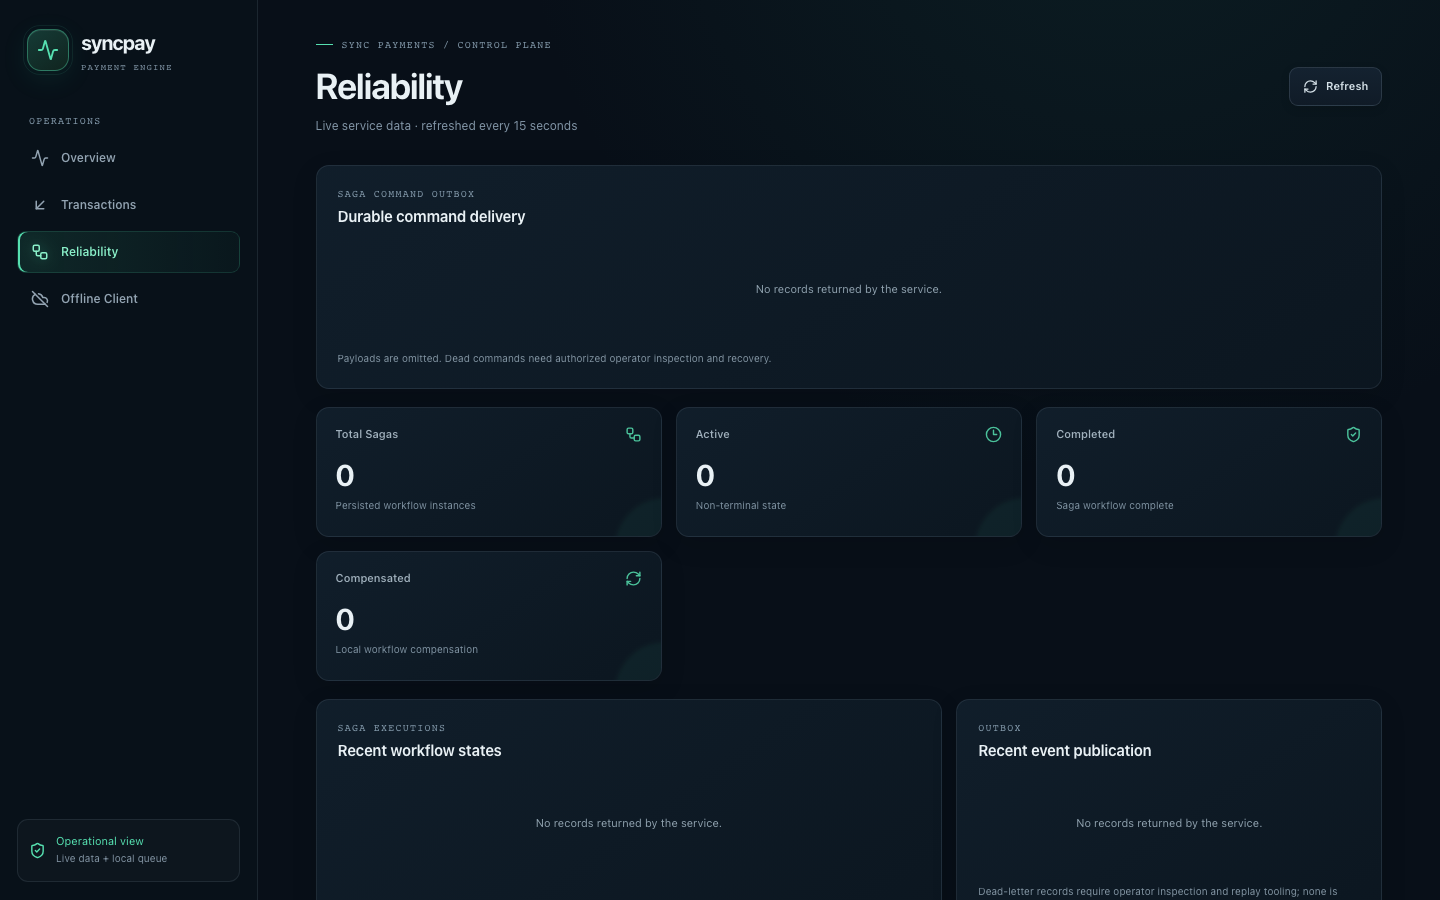
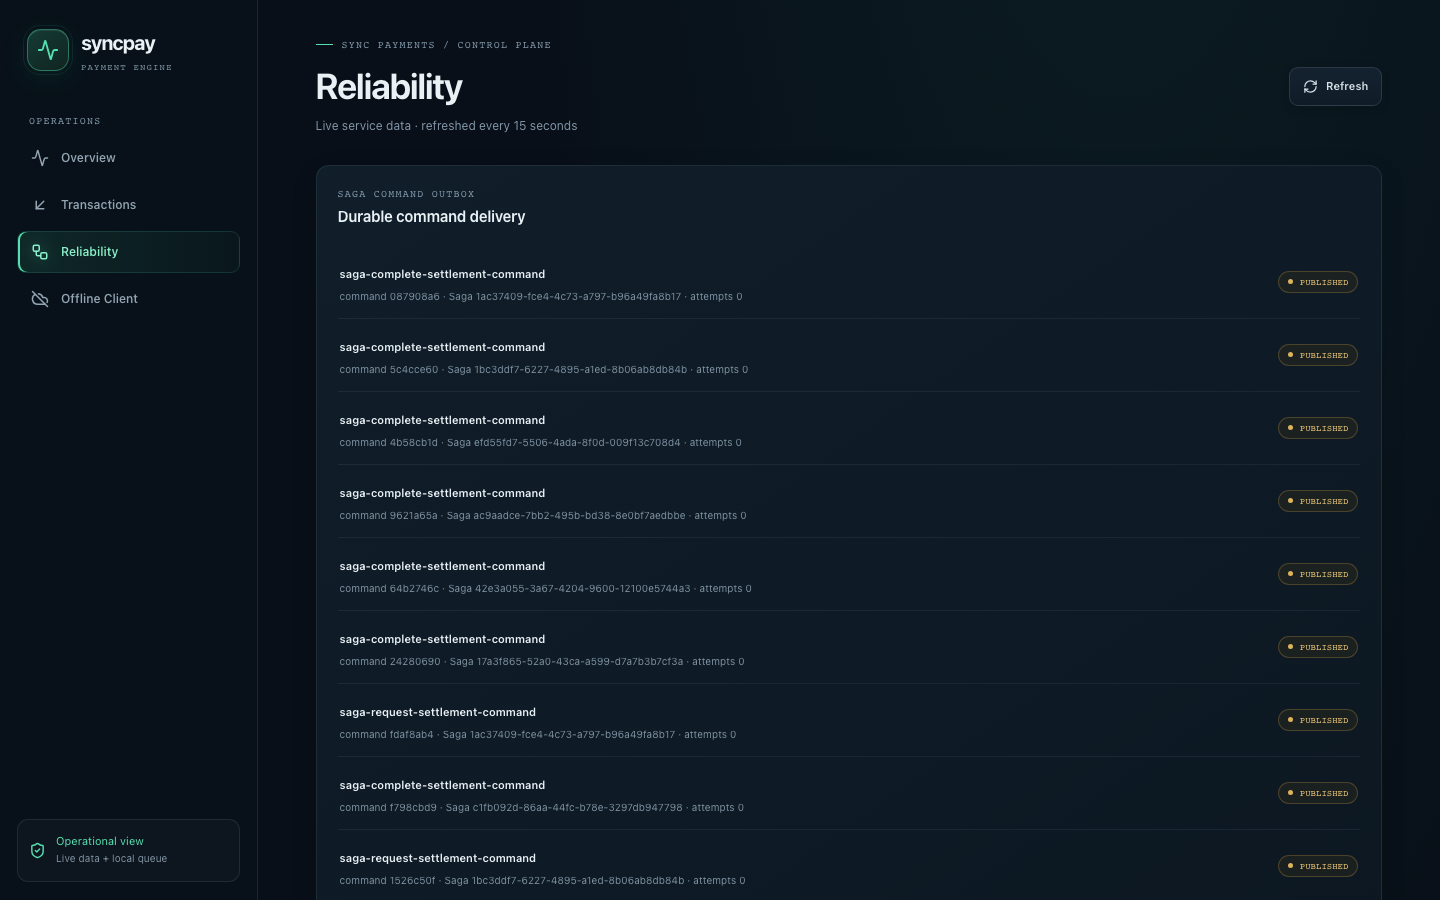
updation of readme.md

diff --git a/README.md b/README.md
@@ -2,7 +2,7 @@
 
 # SyncPay
 
-### An offline-first, Distributed payment engine
+### An offline-first, distributed payment engine
 
 Cryptographically secured packet sync · durable idempotency · Kafka sagas · simulated ledger · ops dashboard
 
@@ -10,6 +10,7 @@ Cryptographically secured packet sync · durable idempotency · Kafka sagas · s
 [![Spring Boot](https://img.shields.io/badge/Spring%20Boot-3.3-6DB33F?logo=springboot&logoColor=white)](https://spring.io/projects/spring-boot)
 [![Kafka](https://img.shields.io/badge/Kafka-3.5-231F20?logo=apachekafka&logoColor=white)](https://kafka.apache.org)
 [![PostgreSQL](https://img.shields.io/badge/PostgreSQL-16-4169E1?logo=postgresql&logoColor=white)](https://postgresql.org)
+[![Redis](https://img.shields.io/badge/Redis-7-DC382D?logo=redis&logoColor=white)](https://redis.io)
 [![React](https://img.shields.io/badge/React-18-61DAFB?logo=react&logoColor=black)](https://react.dev)
 [![Docker](https://img.shields.io/badge/Docker-Compose-2496ED?logo=docker&logoColor=white)](https://docs.docker.com/compose/)
 [![License](https://img.shields.io/badge/license-unspecified-lightgrey)](#license)
